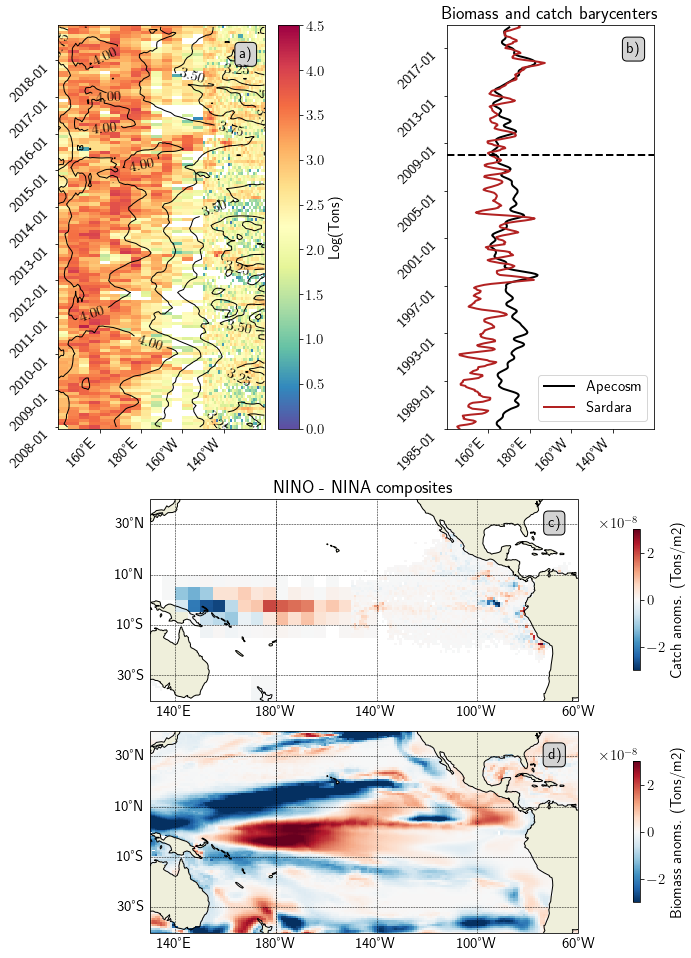
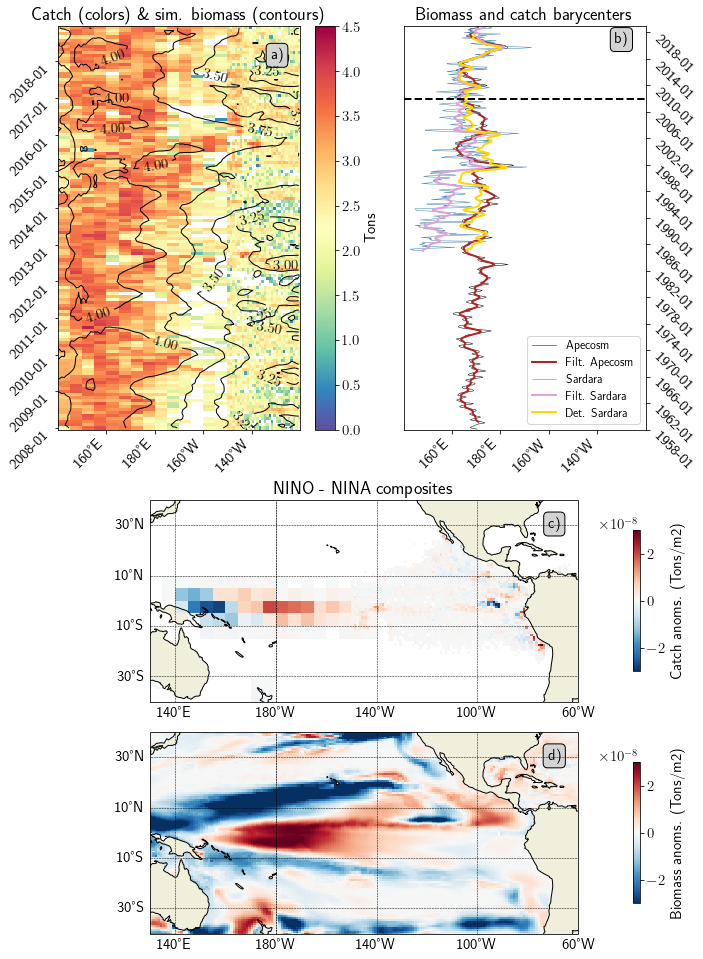
Update validation figure

diff --git a/scripts/sardara-zenodo/plot_validation_apecosm_sardara.py b/scripts/sardara-zenodo/plot_validation_apecosm_sardara.py
@@ -6,9 +6,9 @@
 #       extension: .py
 #       format_name: light
 #       format_version: '1.5'
-#       jupytext_version: 1.11.5
+#       jupytext_version: 1.10.3
 #   kernelspec:
-#     display_name: Python 3
+#     display_name: Python 3 (ipykernel)
 #     language: python
 #     name: python3
 # ---
@@ -23,6 +23,13 @@ from cartopy.mpl.gridliner import LONGITUDE_FORMATTER, LATITUDE_FORMATTER
 import cartopy.crs as ccrs
 import cartopy.feature as cfeature
 import matplotlib.ticker as mticker
+from scipy.ndimage import gaussian_filter1d
+filtparams = {}
+filtparams['sigma'] = 3.5
+filtparams['mode'] = 'constant'
+filtparams['cval'] = np.nan
+filtparams['truncate'] = 4
+
 
 zenodo = False
 ystart = 2008
@@ -86,6 +93,70 @@ compo_sar = xr.open_dataset('map_to_plot_sar.nc')
 compo_sar = compo_sar['catch']
 compo_sar
 
+# ## Processing the filtering/detrending of the time series
+
+apedates = np.array([y * 100 + m for y, m in zip(baryape['time.year'], baryape['time.month'])])
+iokape = np.nonzero((apedates >= 198501) & (apedates <= 201812))[0]
+time = np.arange(apedates.shape[0])
+apefilt = gaussian_filter1d(baryape.values.copy(), **filtparams)
+
+sardates = barysar['time'].values
+ioksar = np.nonzero((sardates >= 198501) & (sardates <= 201812))[0]
+sarfilt = gaussian_filter1d(barysar.values.copy(), **filtparams)
+
+# Extracting the filtered time-series on the common periods, and where there are no NaNs.
+
+tempape = apefilt[iokape]
+tempsar = sarfilt[ioksar]
+timeape = time[iokape]
+test = np.isnan(tempape) | np.isnan(tempsar)
+itest = np.nonzero(test == False)[0]
+tempape = tempape[itest]
+tempsar = tempsar[itest]
+timeape = timeape[itest]
+
+# +
+# parameters to be estimated
+alpha_init = 87.0
+beta_init = 1.0
+
+# constants for optimization
+x0 = np.array([alpha_init, beta_init])
+bnds = ((-1., 2.), (0.8, 1.2))
+
+def compute_series(param):
+    alpha = alpha_init * param[0]
+    beta = beta_init * param[1]
+    shift_max = np.log(alpha + 731) * beta
+    sardara_detrend = tempsar * shift_max / np.log(alpha + timeape)
+    return sardara_detrend
+
+def calc_detrend(param):
+    cost = 0.
+    sardara_detrend = compute_series(param)
+    cost = np.sum((sardara_detrend - tempape)**2)
+    return(cost)
+
+import scipy.optimize as optimize
+print('OPTIMIZATION differential evolution')
+res0 = optimize.differential_evolution(calc_detrend, bounds=bnds, tol=1.E-4)
+res0
+
+print('OPTIMIZATION gradient')
+res1 = optimize.minimize(calc_detrend, x0, bounds=bnds, tol=1.E-9, options={'disp': True})
+res1
+
+param0 = res0.x
+param1 = res1.x
+
+corr0 = compute_series(param0)
+corr1 = compute_series(param1)
+
+ioffset = np.nonzero(apedates == 198501)[0][0]
+# -
+
+# ## Plotting
+
 # +
 plt.rcParams['font.size'] = 15
 formatter0 = LongitudeFormatter(dateline_direction_label=True)
@@ -96,7 +167,7 @@ plt.figure(figsize = (12, 14), facecolor='white')
 
 ############################################################ Plotting Hovmoller diagram
 
-ax = plt.axes([0.05, 0.5, 0.3, 0.4])
+ax = plt.axes([0.05, 0.5, 0.35, 0.4])
 
 apeyears = apecosm['time.year'].values
 apemonths = apecosm['time.month'].values
@@ -126,46 +197,39 @@ plt.text(apecosm['x'].values[-10], time[-10], 'a)', bbox=dicttext, ha='center', 
 cb = plt.colorbar(cs)
 ax.set_xlim(140, -120+360)
 xlim = ax.get_xlim()
+ax.set_title('Catch (colors) \& sim. biomass (contours)')
+cb.set_label('Tons')
 
 ############################################################ plotting barycenter time series
 
 pos1 = ax.get_position()
-offset = 0.45
+offset = 0.4
 pos2 = [pos1.x0, pos1.y0 -offset,  pos1.width, pos1.height]
 pos2 = [pos1.x0 + offset, pos1.y0,  pos1.width, pos1.height]
 
 ax = plt.axes(pos2)
 
-barysartemp = barysar.sel(time=slice(198501, 201812))
 datebaryape = baryape['time'].values
-datebaryape = [d.year * 100 + d.month for d in datebaryape]
-datebarysar = barysartemp['time'].values
+datebaryape = np.array([d.year * 100 + d.month for d in datebaryape])
 
-tape = np.arange(732)
+yyy = datebaryape // 100
+mmm = datebaryape - 100 * yyy
 
-yyy = datebarysar // 100
-mmm = datebarysar - 100 * yyy
-
-test = (datebaryape >= datebarysar[0]) & (datebaryape <= datebarysar[-1])
-iok = np.nonzero(test)[0]
-
-tape = tape[iok]
-alpha = 1.09214162799967
-corr = np.log(alpha * tape[-1]) / np.log(alpha * tape)
-
-time = np.arange(len(datebarysar))
+time = np.arange(len(baryape))
 datestr = np.array(['%.4d-%.2d' %(y, m) for y, m in zip(yyy, mmm)])
 stride = 4*12
 ax.set_yticks(time[::stride])
-ax.set_yticklabels(datestr[::stride], va='top', rotation=45)
+ax.set_yticklabels(datestr[::stride], va='top', rotation=-45)
 
 iline = np.nonzero(datestr=='2008-01')[0]
 
-plt.plot(baryape[iok], time, label='Apecosm')
-plt.plot(barysartemp, time, label='Sardara')
-#plt.plot(barysartemp * corr, time, label='Det. Sardara')
+plt.plot(baryape, np.arange(baryape.shape[0]), label='Apecosm', linewidth=0.5)
+plt.plot(apefilt,np.arange(apefilt.shape[0]), label='Filt. Apecosm')
+plt.plot(barysar[ioksar], np.arange(len(barysar[ioksar])) + ioffset, label='Sardara', linewidth=0.5)
+plt.plot(sarfilt[ioksar], np.arange(sarfilt[ioksar].shape[0]) + ioffset, label='Filt. Sardara')
+plt.plot(corr0, np.arange(corr0.shape[0]) + ioffset, label='Det. Sardara')
 
-plt.legend()
+plt.legend(ncol=1, fontsize=12, loc='lower right')
 plt.axhline(time[iline], color='k', linestyle='--')
 plt.ylim(time.min(), time.max())
 
@@ -173,12 +237,10 @@ ax.xaxis.set_major_formatter(formatter0)
 ax.set_xticks(np.arange(160, -120 + 360, 20))
 plt.setp(ax.get_xticklabels(), rotation=45, ha='right')
 
-cb.set_label('Log(Tons)')
 ax.set_xlim(xlim)
-ax.set_title('Catches and Biomass')
-
 ax.set_title('Biomass and catch barycenters')
 plt.text(-140+360+10, time[-25], 'b)', bbox=dicttext, ha='center', va='center')
+ax.yaxis.tick_right()
 
 ############################################################# plotting catch composites
 
@@ -245,99 +307,18 @@ ax.set_extent([130, -60 + 360, -40, 40], crs=projin)
 plt.text(compo_sar['lon'].values[-10], compo_sar['lat'].values[-10], 'd)', bbox=dicttext, ha='center', va='center', transform=projin)
 
 plt.savefig('plot_validation_apecosm.png', bbox_inches='tight')
-# +
-from scipy.ndimage import gaussian_filter1d
-filtparams = {}
-filtparams['sigma'] = 3.5
-filtparams['mode'] = 'constant'
-filtparams['cval'] = np.nan
-filtparams['truncate'] = 4
-
-ape = baryape.sel(time=slice(None, None))
-apedates = np.array([y * 100 + m for y, m in zip(ape['time.year'], ape['time.month'])])
-iokape = np.nonzero((apedates >= 198501) & (apedates <= 201812))[0]
-
-time = np.arange(ape.shape[0])
-apefilt = gaussian_filter1d(ape.values.copy(), **filtparams)
-
-plt.figure()
-plt.plot(time[iokape], ape.values[iokape])
-plt.plot(time[iokape], apefilt[iokape])
-
-# +
-sar = barysar.sel(time=slice(None, None))
-
-sardates = sar['time'].values
-ioksar = np.nonzero((sardates >= 198501) & (sardates <= 201812))[0]
-
-time = np.arange(sar.shape[0])
-sarfilt = gaussian_filter1d(sar.values.copy(), **filtparams)
-
-plt.figure()
-plt.plot(time[ioksar], sar.values[ioksar])
-plt.plot(time[ioksar], sarfilt[ioksar])
 # -
+itest = np.nonzero(np.isnan(apefilt[iokape]) == False)[0]
+apefilt[iokape][itest].shape
+ts1 = apefilt[iokape][itest]
+ts2 = corr0
+np.corrcoef(ts1, ts2)[0, 1]
+ts1 = (ts1 - np.mean(ts1)) / np.std(ts1)
+ts2 = (ts2 - np.mean(ts2)) / np.std(ts2)
+np.corrcoef(ts1, ts2)[0, 1]
 
-tempape = apefilt[iokape]
-tempsar = sarfilt[ioksar]
-timeape = np.arange(apefilt.shape[0])
-timeape = timeape[iokape]
-test = np.isnan(tempape) | np.isnan(tempsar)
-itest = np.nonzero(test == False)[0]
-tempape = tempape[itest]
-tempsar = tempsar[itest]
-timeape = timeape[itest]
-
-# +
-# parameters to be estimated
-alpha_init = 87.0
-beta_init = 1.0
-
-# constants for optimization
-x0 = np.array([alpha_init, beta_init])
-bnds = ((-1., 2.), (0.8, 1.2))
-
-def compute_series(param):
-    alpha = alpha_init * param[0]
-    beta = beta_init * param[1]
-    shift_max = np.log(alpha + 731) * beta
-    sardara_detrend = tempsar * shift_max / np.log(alpha + timeape)
-    return sardara_detrend
-
-def calc_detrend(param):
-    cost = 0.
-    sardara_detrend = compute_series(param)
-    cost = np.sum((sardara_detrend - tempape)**2)
-    return(cost)
-
-
-# -
-
-import scipy.optimize as optimize
-print('OPTIMIZATION differential evolution')
-res0 = optimize.differential_evolution(calc_detrend, bounds=bnds, tol=1.E-4)
-res0
-
-print('OPTIMIZATION gradient')
-res1 = optimize.minimize(calc_detrend, x0, bounds=bnds, tol=1.E-9, options={'disp': True})
-res1
-
-param0 = res0.x
-param1 = res1.x
-
-corr0 = compute_series(param0)
-corr1 = compute_series(param1)
-
-ioffset = np.nonzero(apedates == 198501)[0][0]
-ioffset
-
-corr0
-
-plt.figure(figsize=(12, 8))
-plt.plot(np.arange(apefilt.shape[0]), baryape, label='Apecosm', linewidth=0.5)
-plt.plot(np.arange(apefilt.shape[0]), apefilt, label='Filt. Apecosm')
-plt.plot(np.arange(sar.values[ioksar].shape[0]) + ioffset, sar[ioksar], label='Sardara', linewidth=0.5)
-plt.plot(np.arange(sar.values[ioksar].shape[0]) + ioffset, sarfilt[ioksar], label='Filt. Sardara')
-plt.plot(np.arange(sar.values[ioksar][itest].shape[0]) + ioffset, corr0, label='Det. Sardara')
-plt.ylim(140, 200)
-plt.legend()
+import sys
+sys.path.append('../')
+from significativity import sig
+sig(ts1, ts2, use_bres=False, dof=2)
+sig(ts1, ts2, use_bres=True, dof=2)

diff --git a/texfiles/nino97.tex b/texfiles/nino97.tex
@@ -65,7 +65,7 @@ Therefore, the response of small fish biomass to El Nino events is a strong biol
 
 \subsection{20 cm}
 
-Regarding intermediate size-classes, changes in biomass induced by growth and predation are of the same order of magnitudes as changes in fish biomass. Changes induced by growth processes strongly ressemble the ones obtained for small sizes, with an increase in fish biomass in that starts at 180\degree{}E at month 2, and which propagates eastward. At month 10, the positive anomalies peak at 150\degree{}W, while negative anomalies take place in the western Pacific (170\degre{}E). Contrary to what occurred for small sizes, changes induced by predation mortality do not mirror changes induced by growth. Indeed, predation mortality induce mostly a reduction of intermediate fish biomass, which starts at month 5 in the western Pacific and propagates eastward, to reach its maximum at 170\degree{}W and at month 10. The changes induced by the combination of both processes resembles the one obtained for small sizes but are westward shifted. As for small sizes, the sole biological processes do not explain do not explain the fish biomass anomalies shown in Fig.\ref{fig:hov_nemo_ape}e, and the contributions of advection and diffusion need to be considered. They account for the two initial fish biomass increases that starts in month 3 at 180\degree{}E and in month 10 at 150\degree{}W. The comparison of active and passive velocities suggest that passive movements (i.e. advection by the ocean currents) dominate, with ocean current anomalies greater than active velocity anomalies by a factor of $\approx\ 20$.
+Regarding intermediate size-classes, changes in biomass induced by growth and predation are of the same order of magnitudes as changes in fish biomass. Changes induced by growth processes strongly ressemble the ones obtained for small sizes, with an increase in fish biomass in that starts at 180\degree{}E at month 2, and which propagates eastward. At month 10, the positive anomalies peak at 150\degree{}W, while negative anomalies take place in the western Pacific (170\degree{}E). Contrary to what occurred for small sizes, changes induced by predation mortality do not mirror changes induced by growth. Indeed, predation mortality induce mostly a reduction of intermediate fish biomass, which starts at month 5 in the western Pacific and propagates eastward, to reach its maximum at 170\degree{}W and at month 10. The changes induced by the combination of both processes resembles the one obtained for small sizes but are westward shifted. As for small sizes, the sole biological processes do not explain do not explain the fish biomass anomalies shown in Fig.\ref{fig:hov_nemo_ape}e, and the contributions of advection and diffusion need to be considered. They account for the two initial fish biomass increases that starts in month 3 at 180\degree{}E and in month 10 at 150\degree{}W. The comparison of active and passive velocities suggest that passive movements (i.e. advection by the ocean currents) dominate, with ocean current anomalies greater than active velocity anomalies by a factor of $\approx\ 20$.
 
 The functional response of intermediate show the same pattern than the growth rate, contrary to small sizes, for which the anomalies are opposite in sign. This indicates that for intermediate sizes, growth rate and functional response are controlled by the same processes. In this case, it can be due to both an increase in food availability, provided by the increase of small sizes biomass, and the warmer temperatures associated with El Nino conditions. Predation mortality rates, without any surprise, show positive anomalies where large fish biomasss increase.
 

diff --git a/scripts/significativity.py b/scripts/significativity.py
@@ -6,7 +6,7 @@
 #       extension: .py
 #       format_name: light
 #       format_version: '1.5'
-#       jupytext_version: 1.11.3
+#       jupytext_version: 1.10.3
 #   kernelspec:
 #     display_name: Python 3 (ipykernel)
 #     language: python
@@ -37,14 +37,19 @@ def autocorr(ts1):
 '''
 Returns the correlation above which significance is true.
 '''
-def sig(ts1, ts2, dof=12, proba=0.95):
+def sig(ts1, ts2, use_bres=True, dof=12, proba=0.95):
     x1 = autocorr(ts1)
     x2 = autocorr(ts2)
     print('x1', x1)
     print('x2', x2)
     bres = bretherthon(x1, x2)
     print('bres', bres)
-    dl = (len(ts1) - dof) * bres
+    if(use_bres):
+        print('apply breth')
+        dl = (len(ts1) - dof) * bres
+    else:
+        print('no bres')
+        dl = (len(ts1) - dof)
     print('n = ', len(ts1))
     print('dl', dl)
     tlim = student.interval(proba, dl)[-1]
